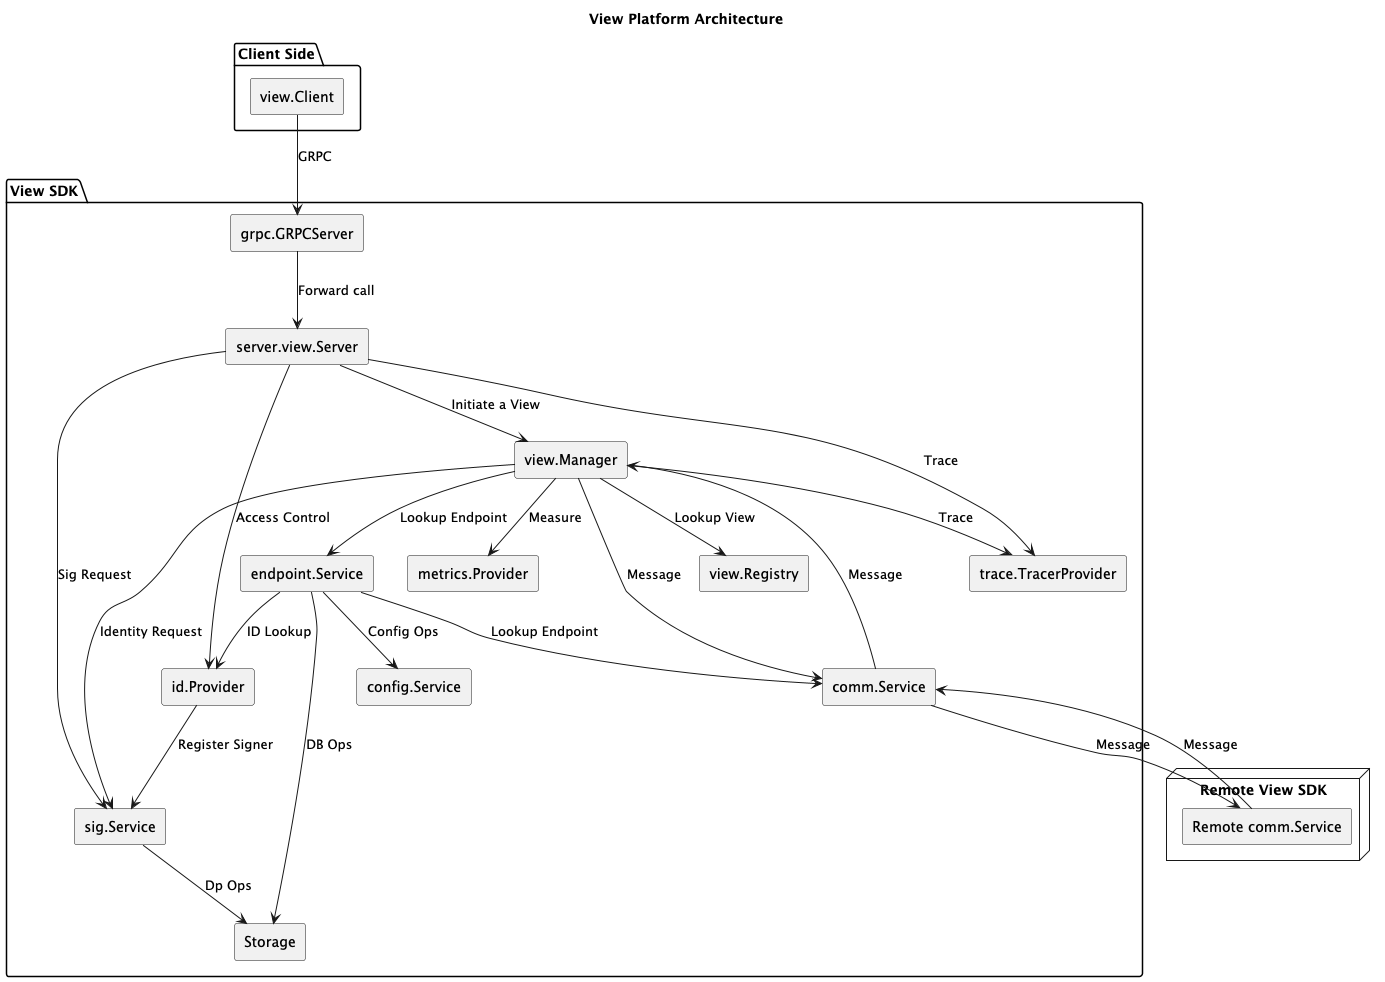
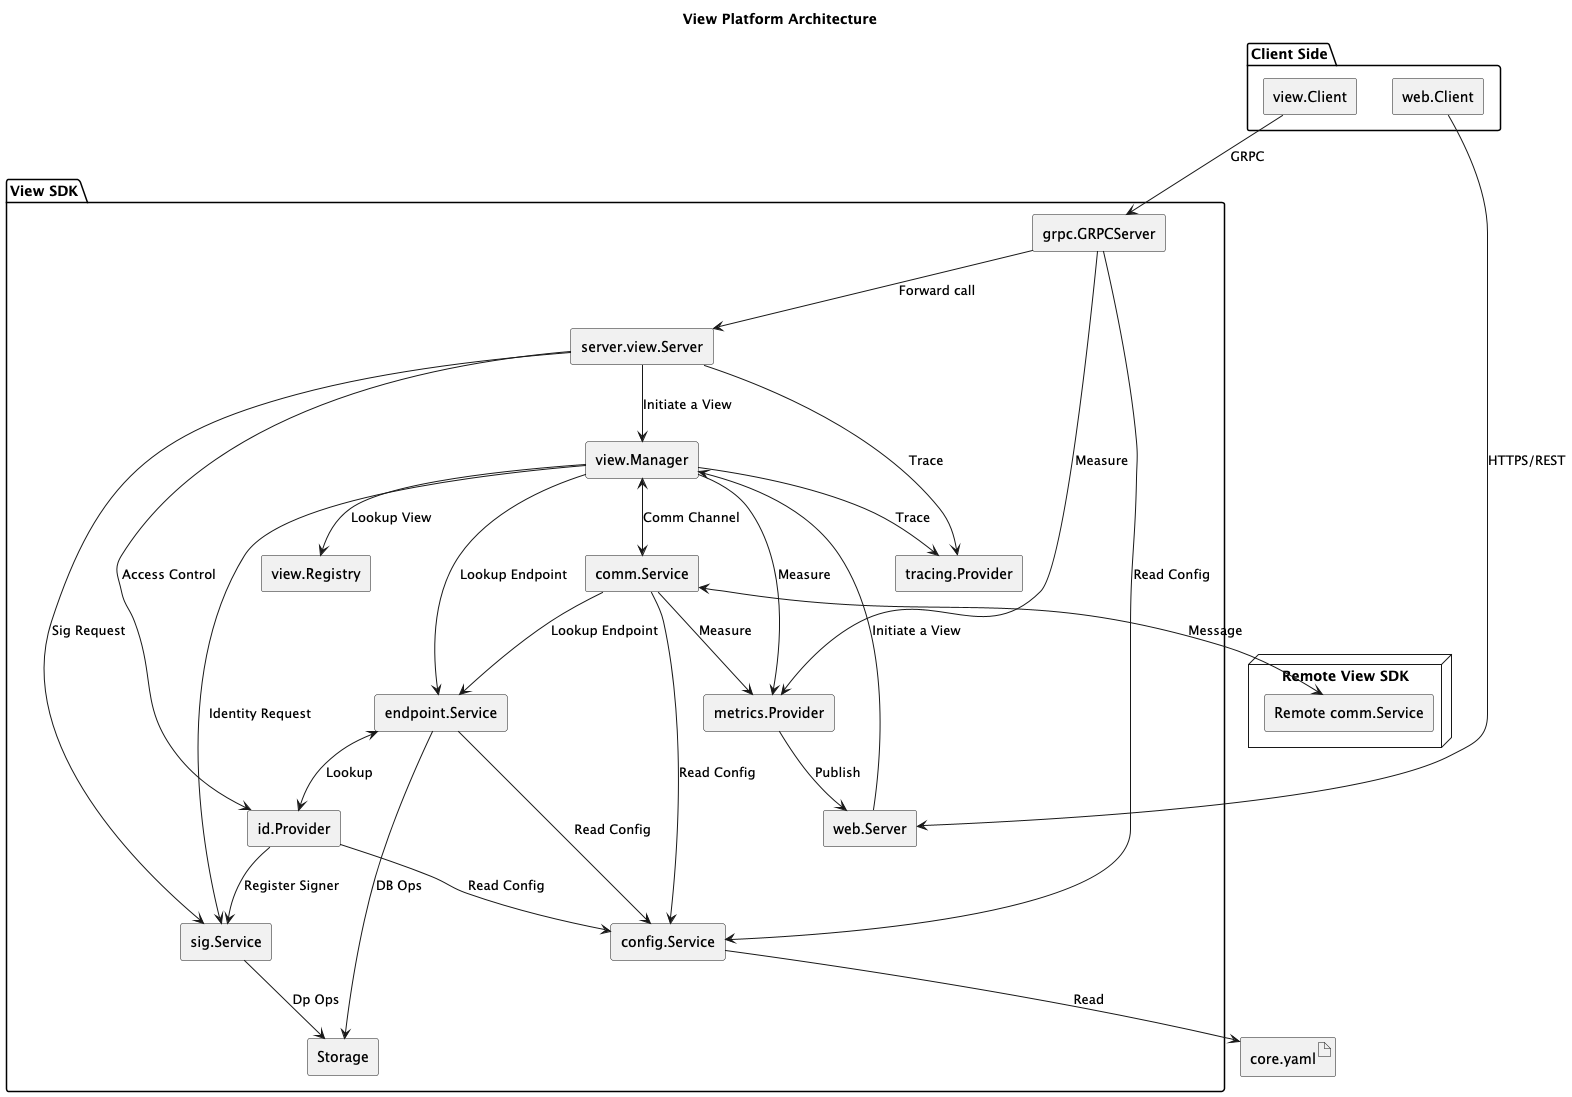
updated diagram and some refactoring

diff --git a/platform/view/sdk/dig/sdk.go b/platform/view/sdk/dig/sdk.go
@@ -46,7 +46,6 @@ import (
 	"github.com/hyperledger-labs/fabric-smart-client/platform/view/services/storage/signerinfo"
 	"github.com/hyperledger-labs/fabric-smart-client/platform/view/services/tracing"
 	"github.com/hyperledger-labs/fabric-smart-client/platform/view/services/view"
-	"go.opentelemetry.io/otel/trace"
 	"go.uber.org/dig"
 )
 
@@ -115,7 +114,7 @@ func (p *SDK) Install() error {
 				new(endpoint.IdentityService), new(view3.IdentityProvider), new(view.IdentityProvider),
 			),
 		),
-		p.Container().Provide(endpoint.NewResolverService),
+		p.Container().Provide(endpoint.NewResolversLoader),
 		p.Container().Provide(web.NewServer),
 		p.Container().Provide(digutils.Identity[web.Server](), dig.As(new(operations.Server))),
 		p.Container().Provide(web.NewOperationsLogger),
@@ -128,8 +127,8 @@ func (p *SDK) Install() error {
 		p.Container().Provide(func(o *operations.Options, l operations.OperationsLogger) metrics2.Provider {
 			return operations.NewMetricsProvider(o.Metrics, l, true)
 		}),
-		p.Container().Provide(func(metricsProvider metrics2.Provider, configService driver.ConfigService) (trace.TracerProvider, error) {
-			base, err := tracing2.NewTracerProvider(configService)
+		p.Container().Provide(func(metricsProvider metrics2.Provider, configService driver.ConfigService) (tracing.Provider, error) {
+			base, err := tracing.NewTracerFromConfiguration(configService)
 			if err != nil {
 				return nil, err
 			}
@@ -148,7 +147,7 @@ func (p *SDK) Install() error {
 			hostProvider host.GeneratorProvider,
 			configProvider driver.ConfigService,
 			endpointService *endpoint.Service,
-			tracerProvider trace.TracerProvider,
+			tracerProvider tracing.Provider,
 			metricsProvider metrics2.Provider,
 		) (*comm.Service, error) {
 			return comm.NewService(hostProvider, endpointService, configProvider, metricsProvider)
@@ -163,7 +162,7 @@ func (p *SDK) Install() error {
 				new(id.SigService),
 			),
 		),
-		p.Container().Provide(func(tracerProvider trace.TracerProvider) *finality.Manager {
+		p.Container().Provide(func(tracerProvider tracing.Provider) *finality.Manager {
 			return finality.NewManager(tracerProvider)
 		}),
 	)
@@ -176,7 +175,7 @@ func (p *SDK) Install() error {
 	}
 
 	err = errors.Join(
-		digutils.Register[trace.TracerProvider](p.Container()),
+		digutils.Register[tracing.Provider](p.Container()),
 		digutils.Register[ViewManager](p.Container()), // Need to add it as a field in the node
 		digutils.Register[id.SigService](p.Container()),
 		digutils.Register[*id.Provider](p.Container()),
@@ -187,7 +186,7 @@ func (p *SDK) Install() error {
 		return err
 	}
 
-	if err := p.Container().Invoke(func(resolverService *endpoint.ResolverService) error { return resolverService.LoadResolvers() }); err != nil {
+	if err := p.Container().Invoke(func(resolverService *endpoint.ResolversLoader) error { return resolverService.LoadResolvers() }); err != nil {
 		return err
 	}
 	return nil
@@ -208,7 +207,7 @@ func (p *SDK) Start(ctx context.Context) error {
 		WebServer      web.Server
 		System         *operations.System
 		KVS            *kvs.KVS
-		TracerProvider trace.TracerProvider
+		TracerProvider tracing.Provider
 	}) error {
 		if in.GRPCServer != nil {
 			protos.RegisterViewServiceServer(in.GRPCServer.Server(), in.ViewService)

diff --git a/platform/view/services/tracing/provider.go b/platform/view/services/tracing/provider.go
@@ -11,12 +11,14 @@ import (
 	"strings"
 
 	"github.com/hyperledger-labs/fabric-smart-client/platform/common/driver"
-	"github.com/hyperledger-labs/fabric-smart-client/platform/view/sdk/tracing"
 	"github.com/hyperledger-labs/fabric-smart-client/platform/view/services/metrics"
 	"go.opentelemetry.io/otel/attribute"
 	"go.opentelemetry.io/otel/trace"
 	"go.opentelemetry.io/otel/trace/embedded"
 )
+
+// Provider is an alias for tracing.Provider
+type Provider = trace.TracerProvider
 
 type metricsProvider interface {
 	NewCounter(opts metrics.CounterOpts) metrics.Counter
@@ -24,14 +26,14 @@ type metricsProvider interface {
 }
 
 type providerWithNodeName struct {
-	trace.TracerProvider
+	Provider
 	nodeName string
 }
 
-func NewProviderWithNodeName(p trace.TracerProvider, nodeName string) trace.TracerProvider {
+func NewProviderWithNodeName(p Provider, nodeName string) Provider {
 	return &providerWithNodeName{
-		TracerProvider: p,
-		nodeName:       nodeName,
+		Provider: p,
+		nodeName: nodeName,
 	}
 }
 
@@ -39,18 +41,18 @@ func (p *providerWithNodeName) Tracer(name string, options ...trace.TracerOption
 	c := trace.NewTracerConfig(options...)
 
 	attrs := c.InstrumentationAttributes()
-	return p.TracerProvider.Tracer(name, append(options, trace.WithInstrumentationAttributes(append(attrs.ToSlice(), attribute.String(nodeNameKey, p.nodeName))...))...)
+	return p.Provider.Tracer(name, append(options, trace.WithInstrumentationAttributes(append(attrs.ToSlice(), attribute.String(nodeNameKey, p.nodeName))...))...)
 }
 
-func NewTracerProvider(confService driver.ConfigService, metricsProvider metrics.Provider) (trace.TracerProvider, error) {
-	backingProvider, err := tracing.NewTracerProvider(confService)
+func NewTracerProvider(confService driver.ConfigService, metricsProvider metrics.Provider) (Provider, error) {
+	backingProvider, err := NewTracerFromConfiguration(confService)
 	if err != nil {
 		return nil, err
 	}
 	return NewTracerProviderWithBackingProvider(backingProvider, metricsProvider), nil
 }
 
-func NewTracerProviderWithBackingProvider(tp trace.TracerProvider, mp metricsProvider) trace.TracerProvider {
+func NewTracerProviderWithBackingProvider(tp Provider, mp metricsProvider) Provider {
 	return &tracerProvider{metricsProvider: mp, backingProvider: tp}
 }
 
@@ -58,7 +60,7 @@ type tracerProvider struct {
 	embedded.TracerProvider
 
 	metricsProvider metricsProvider
-	backingProvider trace.TracerProvider
+	backingProvider Provider
 }
 
 func (p *tracerProvider) Tracer(name string, options ...trace.TracerOption) trace.Tracer {

diff --git a/platform/view/services/comm/provider/provider.go b/platform/view/services/comm/provider/provider.go
@@ -19,14 +19,14 @@ import (
 	"github.com/hyperledger-labs/fabric-smart-client/platform/view/services/comm/host/rest/websocket"
 	"github.com/hyperledger-labs/fabric-smart-client/platform/view/services/endpoint"
 	"github.com/hyperledger-labs/fabric-smart-client/platform/view/services/metrics"
-	"go.opentelemetry.io/otel/trace"
+	"github.com/hyperledger-labs/fabric-smart-client/platform/view/services/tracing"
 )
 
 func NewHostProvider(
 	config driver.ConfigService,
 	endpointService *endpoint.Service,
 	metricsProvider metrics.Provider,
-	tracerProvider trace.TracerProvider,
+	tracerProvider tracing.Provider,
 ) (host.GeneratorProvider, error) {
 	if err := endpointService.AddPublicKeyExtractor(&comm.PKExtractor{}); err != nil {
 		return nil, err
@@ -44,7 +44,7 @@ func NewLibP2PHostProvider(config driver.ConfigService, endpointService *endpoin
 	return libp2p.NewHostGeneratorProvider(libp2p.NewConfig(config), metricsProvider, endpointService)
 }
 
-func NewWebSocketHostProvider(config driver.ConfigService, endpointService *endpoint.Service, tracerProvider trace.TracerProvider, metricsProvider metrics.Provider) (host.GeneratorProvider, error) {
+func NewWebSocketHostProvider(config driver.ConfigService, endpointService *endpoint.Service, tracerProvider tracing.Provider, metricsProvider metrics.Provider) (host.GeneratorProvider, error) {
 	routingConfigPath := config.GetPath("fsc.p2p.opts.routing.path")
 	r, err := routing.NewResolvedStaticIDRouter(routingConfigPath, endpointService)
 	if err != nil {

diff --git a/platform/view/services/tracing/impl.go b/platform/view/services/tracing/impl.go
@@ -22,7 +22,6 @@ import (
 	"go.opentelemetry.io/otel/sdk/resource"
 	sdktrace "go.opentelemetry.io/otel/sdk/trace"
 	semconv "go.opentelemetry.io/otel/semconv/v1.4.0"
-	"go.opentelemetry.io/otel/trace"
 	"go.opentelemetry.io/otel/trace/noop"
 )
 
@@ -59,7 +58,7 @@ type OtplConfig struct {
 
 var logger = logging.MustGetLogger()
 
-func NewTracerProvider(confService driver.ConfigService) (trace.TracerProvider, error) {
+func NewTracerFromConfiguration(confService driver.ConfigService) (Provider, error) {
 	c := Config{}
 	if err := confService.UnmarshalKey("fsc.tracing", &c); err != nil {
 		return nil, err
@@ -67,11 +66,11 @@ func NewTracerProvider(confService driver.ConfigService) (trace.TracerProvider, 
 	return newTracerProviderFromConfig(c, confService.GetString("fsc.id"))
 }
 
-func NewTracerProviderFromConfig(c Config) (trace.TracerProvider, error) {
+func NewTracerProviderFromConfig(c Config) (Provider, error) {
 	return newTracerProviderFromConfig(c, ServiceName)
 }
 
-func newTracerProviderFromConfig(c Config, serviceName string) (trace.TracerProvider, error) {
+func newTracerProviderFromConfig(c Config, serviceName string) (Provider, error) {
 	var exporter sdktrace.SpanExporter
 	var err error
 	switch c.Provider {

diff --git a/docs/platform/fabric/fabricdev/core/fabricdev/channelprovider.go b/docs/platform/fabric/fabricdev/core/fabricdev/channelprovider.go
@@ -28,9 +28,9 @@ import (
 	"github.com/hyperledger-labs/fabric-smart-client/platform/fabric/services/storage/vault"
 	"github.com/hyperledger-labs/fabric-smart-client/platform/view/services/events"
 	"github.com/hyperledger-labs/fabric-smart-client/platform/view/services/metrics"
+	"github.com/hyperledger-labs/fabric-smart-client/platform/view/services/tracing"
 	"github.com/hyperledger/fabric-protos-go/common"
 	"github.com/pkg/errors"
-	"go.opentelemetry.io/otel/trace"
 )
 
 var logger = logging.MustGetLogger()
@@ -43,7 +43,7 @@ type provider struct {
 	publisher               events.Publisher
 	hasher                  hash.Hasher
 	newVault                generic.VaultConstructor
-	tracerProvider          trace.TracerProvider
+	tracerProvider          tracing.Provider
 	metricsProvider         metrics.Provider
 	dependencyResolver      committer.DependencyResolver
 	drivers                 multiplexed.Driver
@@ -59,7 +59,7 @@ func NewChannelProvider(
 	endorseTxKVS driver.EndorseTxStore,
 	publisher events.Publisher,
 	hasher hash.Hasher,
-	tracerProvider trace.TracerProvider,
+	tracerProvider tracing.Provider,
 	metricsProvider metrics.Provider,
 	drivers multiplexed.Driver,
 	newVault generic.VaultConstructor,

diff --git a/platform/fabric/sdk/dig/generic/providers.go b/platform/fabric/sdk/dig/generic/providers.go
@@ -34,8 +34,8 @@ import (
 	"github.com/hyperledger-labs/fabric-smart-client/platform/view/services/events"
 	"github.com/hyperledger-labs/fabric-smart-client/platform/view/services/kvs"
 	"github.com/hyperledger-labs/fabric-smart-client/platform/view/services/metrics"
+	"github.com/hyperledger-labs/fabric-smart-client/platform/view/services/tracing"
 	"github.com/hyperledger/fabric-protos-go/common"
-	"go.opentelemetry.io/otel/trace"
 	"go.uber.org/dig"
 )
 
@@ -62,7 +62,7 @@ func NewDriver(in struct {
 	KVS             *kvs.KVS
 	AuditInfoKVS    driver2.AuditInfoStore
 	SignerKVS       driver2.SignerInfoStore
-	TracerProvider  trace.TracerProvider
+	TracerProvider  tracing.Provider
 	ChannelProvider generic.ChannelProvider        `name:"generic-channel-provider"`
 	IdentityLoaders []identity.NamedIdentityLoader `group:"identity-loaders"`
 }) core.NamedDriver {
@@ -91,7 +91,7 @@ func NewChannelProvider(in struct {
 	EndorseTxKVS    driver.EndorseTxStore
 	Publisher       events.Publisher
 	Hasher          hash.Hasher
-	TracerProvider  trace.TracerProvider
+	TracerProvider  tracing.Provider
 	Drivers         multiplexed.Driver
 	MetricsProvider metrics.Provider
 }) generic.ChannelProvider {

diff --git a/platform/fabric/core/generic/delivery/service.go b/platform/fabric/core/generic/delivery/service.go
@@ -15,9 +15,9 @@ import (
 	"github.com/hyperledger-labs/fabric-smart-client/platform/fabric/core/generic/fabricutils"
 	"github.com/hyperledger-labs/fabric-smart-client/platform/fabric/driver"
 	"github.com/hyperledger-labs/fabric-smart-client/platform/view/services/metrics"
+	"github.com/hyperledger-labs/fabric-smart-client/platform/view/services/tracing"
 	"github.com/hyperledger/fabric-protos-go/common"
 	pb "github.com/hyperledger/fabric-protos-go/peer"
-	"go.opentelemetry.io/otel/trace"
 )
 
 type ValidationFlags []uint8
@@ -34,7 +34,7 @@ type Service struct {
 	transactionManager  driver.TransactionManager
 	waitForEventTimeout time.Duration
 	acceptedHeaderTypes collections.Set[common.HeaderType]
-	tracerProvider      trace.TracerProvider
+	tracerProvider      tracing.Provider
 	metricsProvider     metrics.Provider
 	deliveryService     *Delivery
 }
@@ -51,7 +51,7 @@ func NewService(
 	vault Vault,
 	transactionManager driver.TransactionManager,
 	callback driver.BlockCallback,
-	tracerProvider trace.TracerProvider,
+	tracerProvider tracing.Provider,
 	metricsProvider metrics.Provider,
 	acceptedHeaderTypes []common.HeaderType,
 ) (*Service, error) {

diff --git a/platform/view/services/endpoint/resolver.go b/platform/view/services/endpoint/resolver.go
@@ -54,15 +54,15 @@ type Backend interface {
 	AddResolver(name string, domain string, addresses map[string]string, aliases []string, id []byte) (view.Identity, error)
 }
 
-type ResolverService struct {
+type ResolversLoader struct {
 	config  ConfigService
 	backend Backend
 	is      IdentityService
 }
 
-// NewResolverService returns a new instance of the view-sdk endpoint resolverService
-func NewResolverService(config ConfigService, backend Backend, is IdentityService) (*ResolverService, error) {
-	er := &ResolverService{
+// NewResolversLoader returns a new instance of ResolversLoader that loads resolver from the configuration.
+func NewResolversLoader(config ConfigService, backend Backend, is IdentityService) (*ResolversLoader, error) {
+	er := &ResolversLoader{
 		config:  config,
 		backend: backend,
 		is:      is,
@@ -70,7 +70,7 @@ func NewResolverService(config ConfigService, backend Backend, is IdentityServic
 	return er, nil
 }
 
-func (r *ResolverService) LoadResolvers() error {
+func (r *ResolversLoader) LoadResolvers() error {
 	// add default
 	_, err := r.backend.AddResolver(
 		r.config.GetString("fsc.id"),

diff --git a/integration/nwo/fsc/fsc.go b/integration/nwo/fsc/fsc.go
@@ -33,7 +33,6 @@ import (
 	"github.com/hyperledger-labs/fabric-smart-client/platform/common/utils"
 	"github.com/hyperledger-labs/fabric-smart-client/platform/common/utils/collections"
 	"github.com/hyperledger-labs/fabric-smart-client/platform/common/utils/hash"
-	tracing2 "github.com/hyperledger-labs/fabric-smart-client/platform/view/sdk/tracing"
 	"github.com/hyperledger-labs/fabric-smart-client/platform/view/services/client/view"
 	view2 "github.com/hyperledger-labs/fabric-smart-client/platform/view/services/client/view/cmd"
 	"github.com/hyperledger-labs/fabric-smart-client/platform/view/services/client/web"
@@ -42,6 +41,7 @@ import (
 	"github.com/hyperledger-labs/fabric-smart-client/platform/view/services/db/driver/sql/postgres"
 	"github.com/hyperledger-labs/fabric-smart-client/platform/view/services/db/driver/sql/sqlite"
 	"github.com/hyperledger-labs/fabric-smart-client/platform/view/services/grpc"
+	tracing2 "github.com/hyperledger-labs/fabric-smart-client/platform/view/services/tracing"
 	"github.com/miracl/conflate"
 	"github.com/onsi/ginkgo/v2"
 	"github.com/onsi/gomega"

diff --git a/platform/fabric/core/generic/vault/vault.go b/platform/fabric/core/generic/vault/vault.go
@@ -17,17 +17,17 @@ import (
 	fdriver "github.com/hyperledger-labs/fabric-smart-client/platform/fabric/driver"
 	vault2 "github.com/hyperledger-labs/fabric-smart-client/platform/fabric/services/storage/vault"
 	"github.com/hyperledger-labs/fabric-smart-client/platform/view/services/metrics"
+	"github.com/hyperledger-labs/fabric-smart-client/platform/view/services/tracing"
 	"github.com/hyperledger/fabric-protos-go/ledger/rwset"
 	"github.com/hyperledger/fabric-protos-go/ledger/rwset/kvrwset"
 	"github.com/hyperledger/fabric/core/ledger/kvledger/txmgmt/rwsetutil"
 	"github.com/pkg/errors"
-	"go.opentelemetry.io/otel/trace"
 )
 
 type Vault = vault.Vault[fdriver.ValidationCode]
 
 // NewVault returns a new instance of Vault
-func NewVault(vaultStore vault2.CachedVaultStore, metricsProvider metrics.Provider, tracerProvider trace.TracerProvider) *Vault {
+func NewVault(vaultStore vault2.CachedVaultStore, metricsProvider metrics.Provider, tracerProvider tracing.Provider) *Vault {
 	return vault.New[fdriver.ValidationCode](
 		logging.MustGetLogger(),
 		vaultStore,

diff --git a/platform/view/sdk/web/service.go b/platform/view/sdk/web/service.go
@@ -20,9 +20,9 @@ import (
 	"github.com/hyperledger-labs/fabric-smart-client/platform/view/services/metrics/operations"
 	"github.com/hyperledger-labs/fabric-smart-client/platform/view/services/server"
 	"github.com/hyperledger-labs/fabric-smart-client/platform/view/services/server/web"
+	"github.com/hyperledger-labs/fabric-smart-client/platform/view/services/tracing"
 	"go.opentelemetry.io/contrib/instrumentation/google.golang.org/grpc/otelgrpc"
 	"go.opentelemetry.io/contrib/instrumentation/net/http/otelhttp"
-	"go.opentelemetry.io/otel/trace"
 	"google.golang.org/grpc"
 )
 
@@ -34,7 +34,7 @@ type Server interface {
 
 var logger = logging.MustGetLogger()
 
-func NewServer(configProvider driver.ConfigService, viewManager server.ViewManager, tracerProvider trace.TracerProvider) Server {
+func NewServer(configProvider driver.ConfigService, viewManager server.ViewManager, tracerProvider tracing.Provider) Server {
 	if !configProvider.GetBool("fsc.web.enabled") {
 		logger.Info("web server not enabled")
 		return web.NewDummyServer()

diff --git a/platform/view/sdk/tracing/tracing.go b/platform/view/sdk/tracing/tracing.go
@@ -10,6 +10,7 @@ import (
 	"reflect"
 
 	"github.com/hyperledger-labs/fabric-smart-client/platform/view/services"
+	"github.com/hyperledger-labs/fabric-smart-client/platform/view/services/tracing"
 	"go.opentelemetry.io/otel/trace"
 )
 
@@ -17,15 +18,15 @@ import (
 var providerType = reflect.TypeOf((*tracerProvider)(nil))
 
 type tracerProvider struct {
-	trace.TracerProvider
+	tracing.Provider
 	viewTracer trace.Tracer
 }
 
-func NewWrappedTracerProvider(tp trace.TracerProvider) trace.TracerProvider {
-	return &tracerProvider{TracerProvider: tp, viewTracer: tp.Tracer("view_tracer")}
+func NewWrappedTracerProvider(tp tracing.Provider) tracing.Provider {
+	return &tracerProvider{Provider: tp, viewTracer: tp.Tracer("view_tracer")}
 }
 
-func Get(sp services.Provider) trace.TracerProvider {
+func Get(sp services.Provider) tracing.Provider {
 	s, err := sp.GetService(providerType)
 	if err != nil {
 		panic(err)
